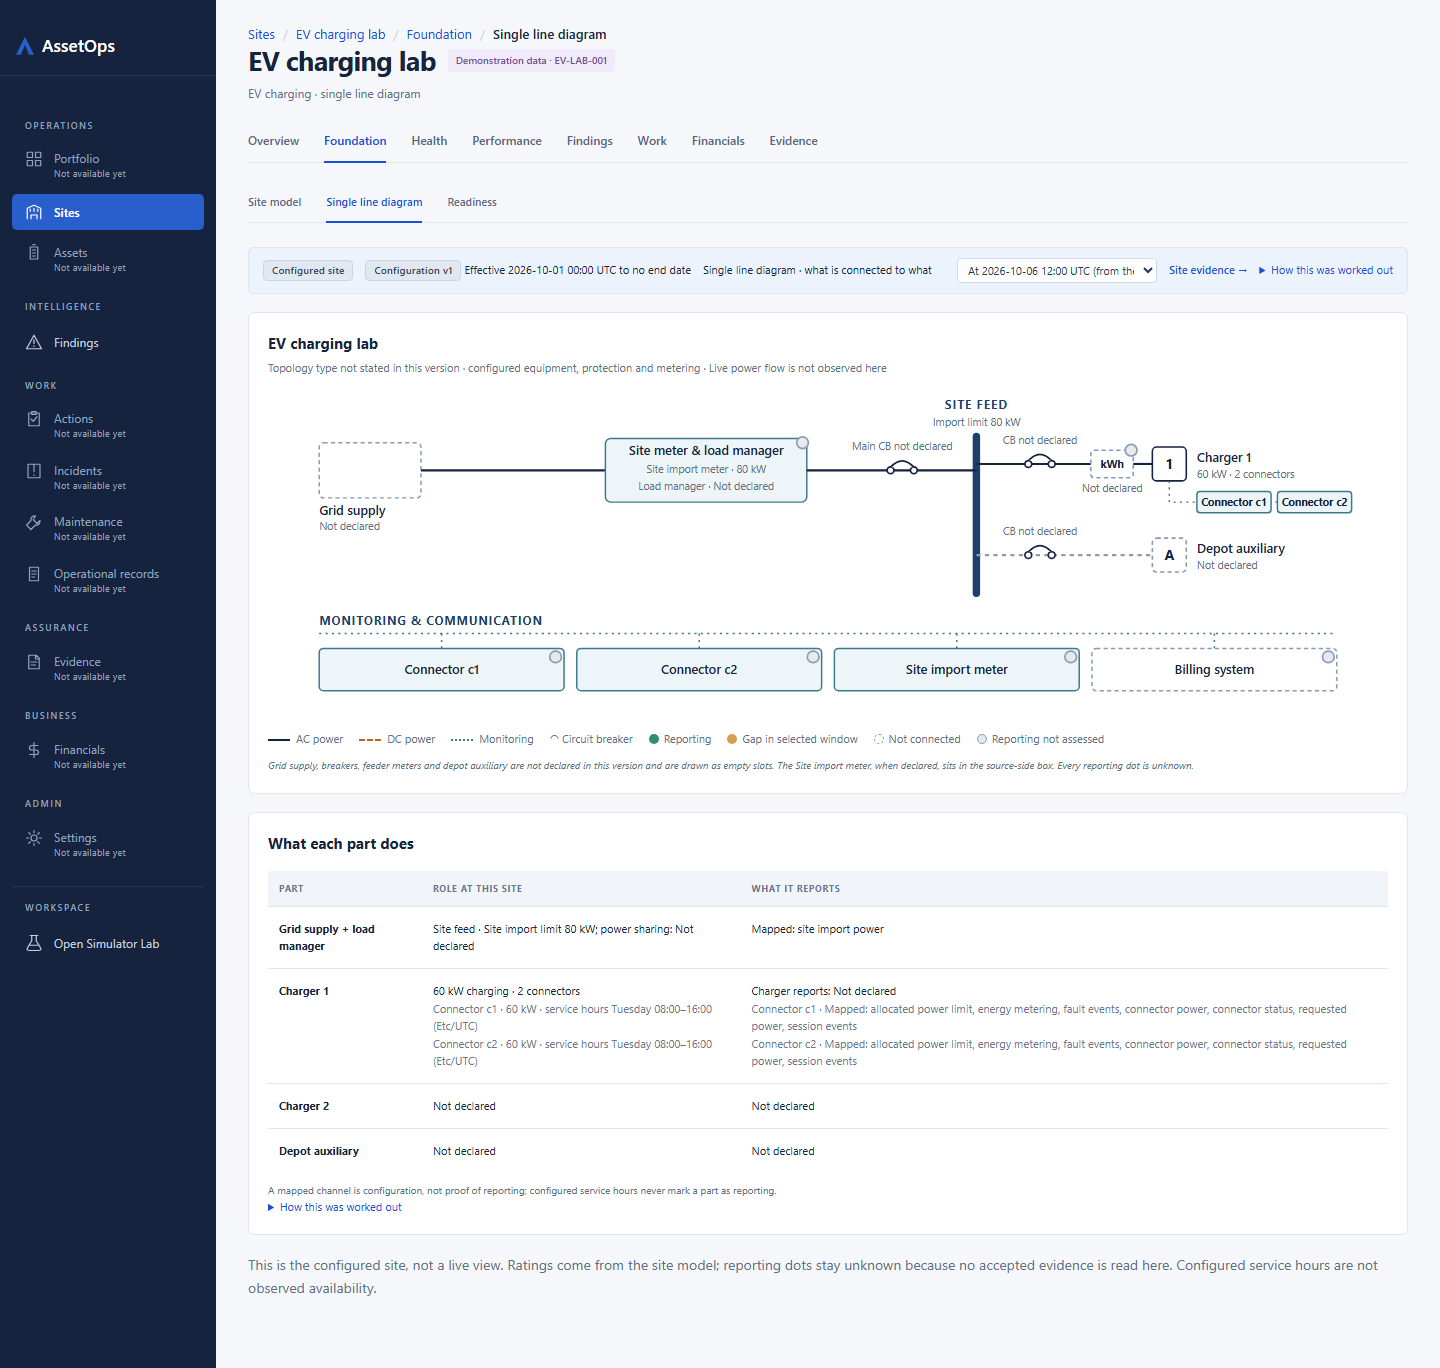
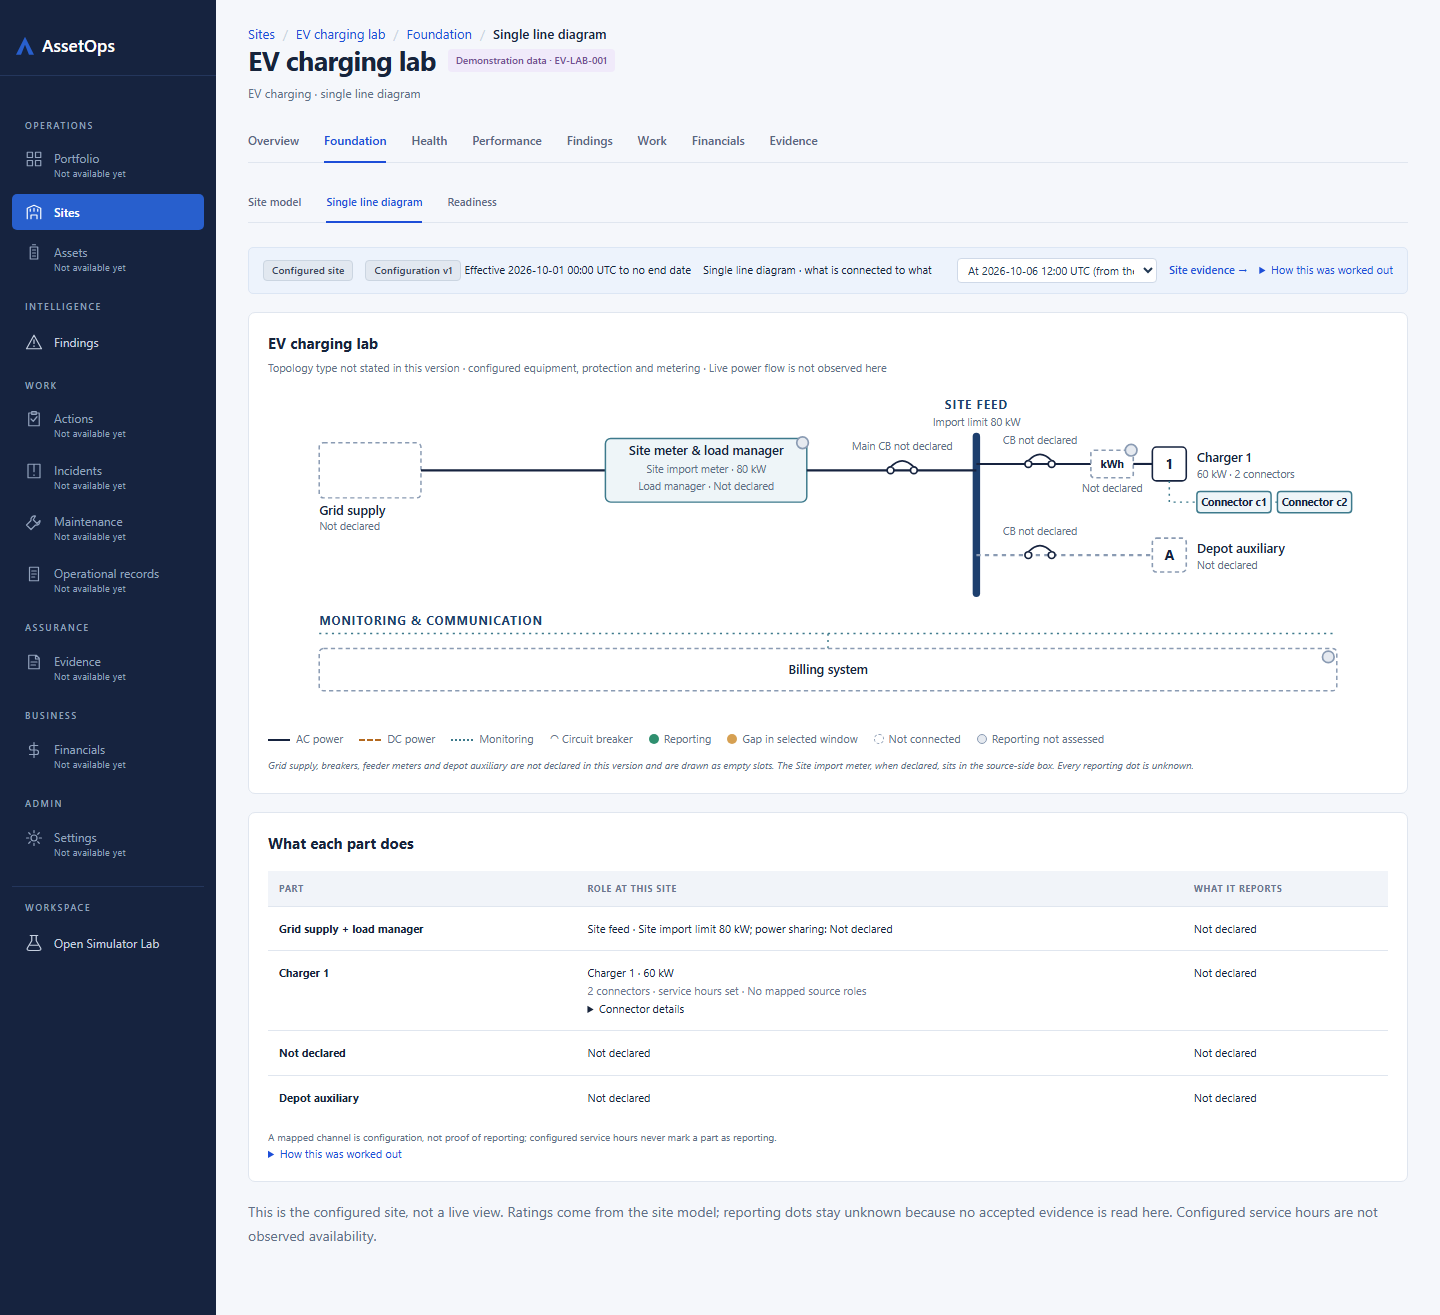
W2-05a: recapture ev-sld after compaction (1.29x); handoff

diff --git a/.agent/W2-05a-phase-handoff.md b/.agent/W2-05a-phase-handoff.md
@@ -28,3 +28,9 @@ Branch `task/W2-05a-ev-foundation`, worktree `AssetOpsV1-review5`. Commits: 1 `2
 ## Next: spec commit 5
 
 Merge W2-04 `0023` into this branch, create `0024_w2_ev_config` (`down_revision` = 0023) per spec "Code seams", run upgrade/downgrade; final guards; one full backend suite + host suite (check no other pytest first, keep-awake, 75-min cap); frontend suite; packet `.agent/W2-05a-review-packet.md` (git add -f) with the height table above (rulings section).
+
+## Run 6 (ev-sld parts-table compaction ruling)
+- Applied the Architect's compaction exactly: charger cells are two lines (`{name} · {rating|Rating not declared}`; `{n} connector(s) · {schedule state} · {n} mapped source role(s)|No mapped source roles`); closed in-cell `Connector details` disclosure carries each connector's name, rating, service hours, clock bound and mapped roles; more than two chargers: second row says `{n} additional charger(s)` with every extra charger in its disclosure; missing charger is `Not declared` in name, role and reporting cells with no disclosure. Four vocabulary exceptions confirmed as global exact phrases (unchanged).
+- Recaptured ev-sld stocked and empty at 1440/390 (24/24 claims; same private-DB recipe, DB dropped, servers stopped). ev-sld-missing-role not recaptured (needs the gap binding revision; its parts table is unchanged in kind). Parts panel at 1440 app/mock: 370/287 = **1.29x** (was 1.47x; limit 1.30x). 390: no horizontal overflow.
+- Deviation for a ruling: the spec labels bindings `Configured mapping`, but the vocabulary scanner flags `mapping` outside the four exact phrases and the ruling forbids new exceptions. The disclosure label is `Configured source roles:` instead. If the Architect wants `Configured mapping`, a fifth exact allowlist phrase is needed.
+- Reporting column now shows `{n} configured source role(s)` / Not declared (no connector lines; those moved to the disclosure).
